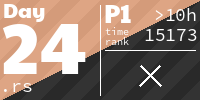
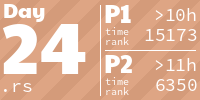
Tiles

diff --git a/README.md b/README.md
@@ -17,10 +17,10 @@
 ## Scores
 <!-- AOC TILES BEGIN -->
 <h1 align="center">
-  Advent of Code - 122/498 ⭐
+  Advent of Code - 123/498 ⭐
 </h1>
 <h1 align="center">
-  2024 - 47 ⭐ - Rust
+  2024 - 48 ⭐ - Rust
 </h1>
 <a href="aoc-2024/src/day01.rs">
   <img src=".aoc_tiles/tiles/2024/01.png" width="161px">
